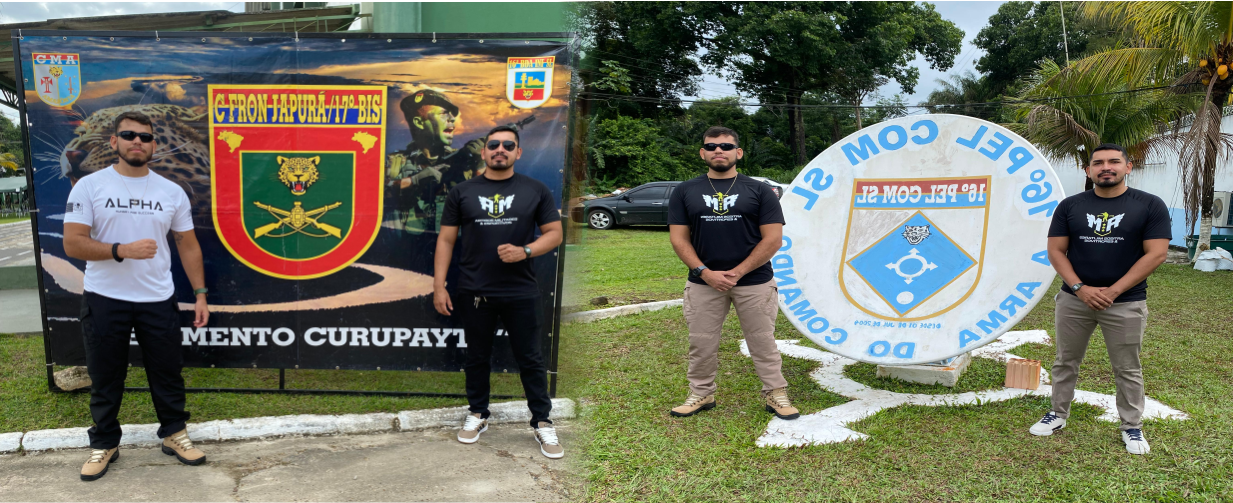
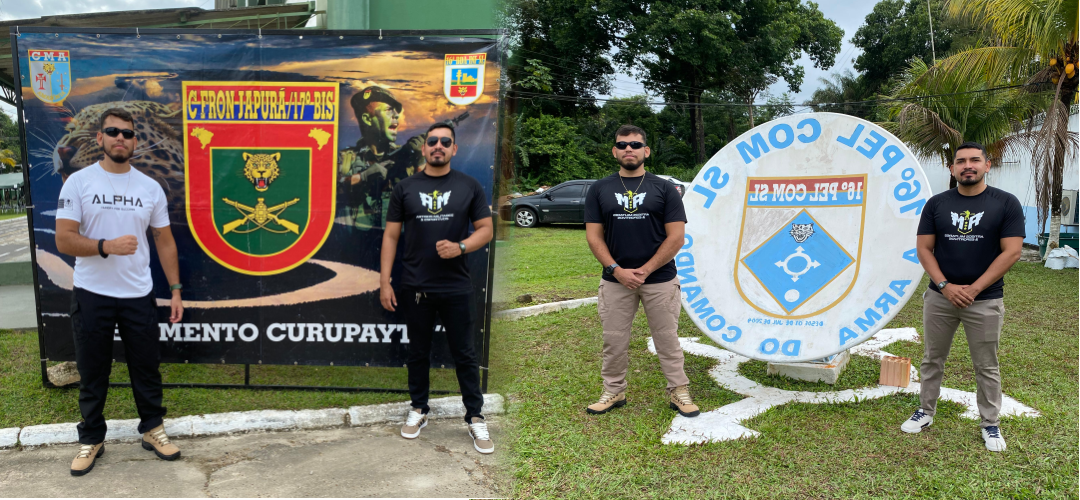
novo modelo dos slides mobile e desktop

diff --git a/slides/slides.css b/slides/slides.css
@@ -1,62 +1,76 @@
-.banner {
-    position: relative;
-    width: 100%;
-
-    height: 400px;
-
-    overflow: hidden;
-
+.banner{
+    position:relative;
+    width:100%;
+    height:400px;
+    overflow:hidden;
 }
 
-.banner img {
-    position: absolute;
-    width: 100%;
-    height: 100%;
-    object-fit: cover;
-    opacity: 0;
-    transition: opacity 1s ease-in-out;
+/* TODAS AS IMAGENS DO SLIDER */
+.banner img{
+    position:absolute;
+    width:100%;
+    height:100%;
+    object-fit:cover;
+    opacity:0;
+    transition:opacity 1s ease-in-out;
 }
 
-.banner img.ativo {
-    opacity: 1;
+/* IMAGEM ATIVA */
+.banner img.ativo{
+    opacity:1;
 }
 
-.seta {
-    position: absolute;
-    top: 50%;
-    transform: translateY(-50%);
-    background-color: rgba(0, 0, 0, 0.5);
-    color: #fff;
-    border: none;
-    font-size: 30px;
-    padding: 10px 15px;
-    cursor: pointer;
-    z-index: 10;
-    border-radius: 5px;
+/* SETAS */
+.seta{
+    position:absolute;
+    top:50%;
+    transform:translateY(-50%);
+    background-color:rgba(0,0,0,0.5);
+    color:#fff;
+    border:none;
+    font-size:30px;
+    padding:10px 15px;
+    cursor:pointer;
+    z-index:10;
+    border-radius:5px;
 }
 
-.seta.esquerda {
-    left: 10px;
+.seta.esquerda{
+    left:10px;
 }
 
-.seta.direita {
-    right: 10px;
+.seta.direita{
+    right:10px;
 }
 
-.seta:hover {
-    background-color: rgba(0, 0, 0, 0.8);
+.seta:hover{
+    background-color:rgba(0,0,0,0.8);
 }
+
+/* CONTROLE DESKTOP / MOBILE */
+
+.banner-desktop{
+    display:block;
+}
+
+.banner-mobile{
+    display:none;
+}
+
+/* MOBILE */
 
 @media (max-width:768px){
 
 .banner{
-    width: 100%;
-    height:auto;
-    aspect-ratio:16/9;
+    height:300px;
 }
 
-.banner img{
-    object-fit:cover;
+.banner-desktop{
+    display:none;
+}
+
+.banner-mobile{
+    display:block;
 }
 
 }

diff --git a/slides/script.js b/slides/script.js
@@ -1,20 +1,26 @@
-let imagens = document.querySelectorAll(".slide");
+function pegarSlidesVisiveis(){
+    return Array.from(document.querySelectorAll(".slide"))
+        .filter(img => window.getComputedStyle(img).display !== "none");
+}
+
+let imagens = pegarSlidesVisiveis();
 let index = 0;
 let intervalo;
 
-function mostrarImagem(i) {
+function mostrarImagem(i){
     imagens.forEach(img => img.classList.remove("ativo"));
-    imagens[i].classList.add("ativo");
+    if(imagens[i]) imagens[i].classList.add("ativo");
 }
 
-function iniciarAutoSlide() {
+function iniciarAutoSlide(){
     intervalo = setInterval(() => {
+        imagens = pegarSlidesVisiveis(); // atualiza slides visíveis
         index = (index + 1) % imagens.length;
         mostrarImagem(index);
     }, 3000);
 }
 
-// setinha direita
+// seta direita
 document.querySelector(".seta.direita").addEventListener("click", () => {
     clearInterval(intervalo);
     index = (index + 1) % imagens.length;
@@ -22,7 +28,7 @@ document.querySelector(".seta.direita").addEventListener("click", () => {
     iniciarAutoSlide();
 });
 
-// setinha esquerda
+// seta esquerda
 document.querySelector(".seta.esquerda").addEventListener("click", () => {
     clearInterval(intervalo);
     index = (index - 1 + imagens.length) % imagens.length;
@@ -30,5 +36,6 @@ document.querySelector(".seta.esquerda").addEventListener("click", () => {
     iniciarAutoSlide();
 });
 
-// inicia automaticamente
+
 iniciarAutoSlide();
+

diff --git a/index.html b/index.html
@@ -127,14 +127,21 @@
             
         </nav>
 
-        <!-- BANNER -->
+
         <section class="banner">
-            <img src="./imagens/banner3.png" class="slide ativo">
-            <img src="./slides/slidesFoto/banner divulgação da loja.png" class="slide">
-            <img src="./slides/slidesFoto/fotos artigos militares clientes.png"   class="slide">
+
+            <!-- BANNER DESKTOP -->
+            <img src="./imagens/banner3.png" class="slide banner-desktop ativo">
+            <img src="./slides/slidesFoto/fotos artigos militares clientes.png" class="slide banner-desktop">
+            <img src="./slides/slidesFoto/banner divulgação da loja.png" class="slide banner-desktop">
+
+            <!-- BANNER MOBILE -->
+            <img src="./slides/fotosSlideMobile/foto clientes mobile.png" class="slide banner-mobile">
+            <img src="./slides/fotosSlideMobile/cuturno.jpeg" class="slide banner-mobile">
 
             <button class="seta esquerda">&#10094;</button>
             <button class="seta direita">&#10095;</button>
+
         </section>
 
        
